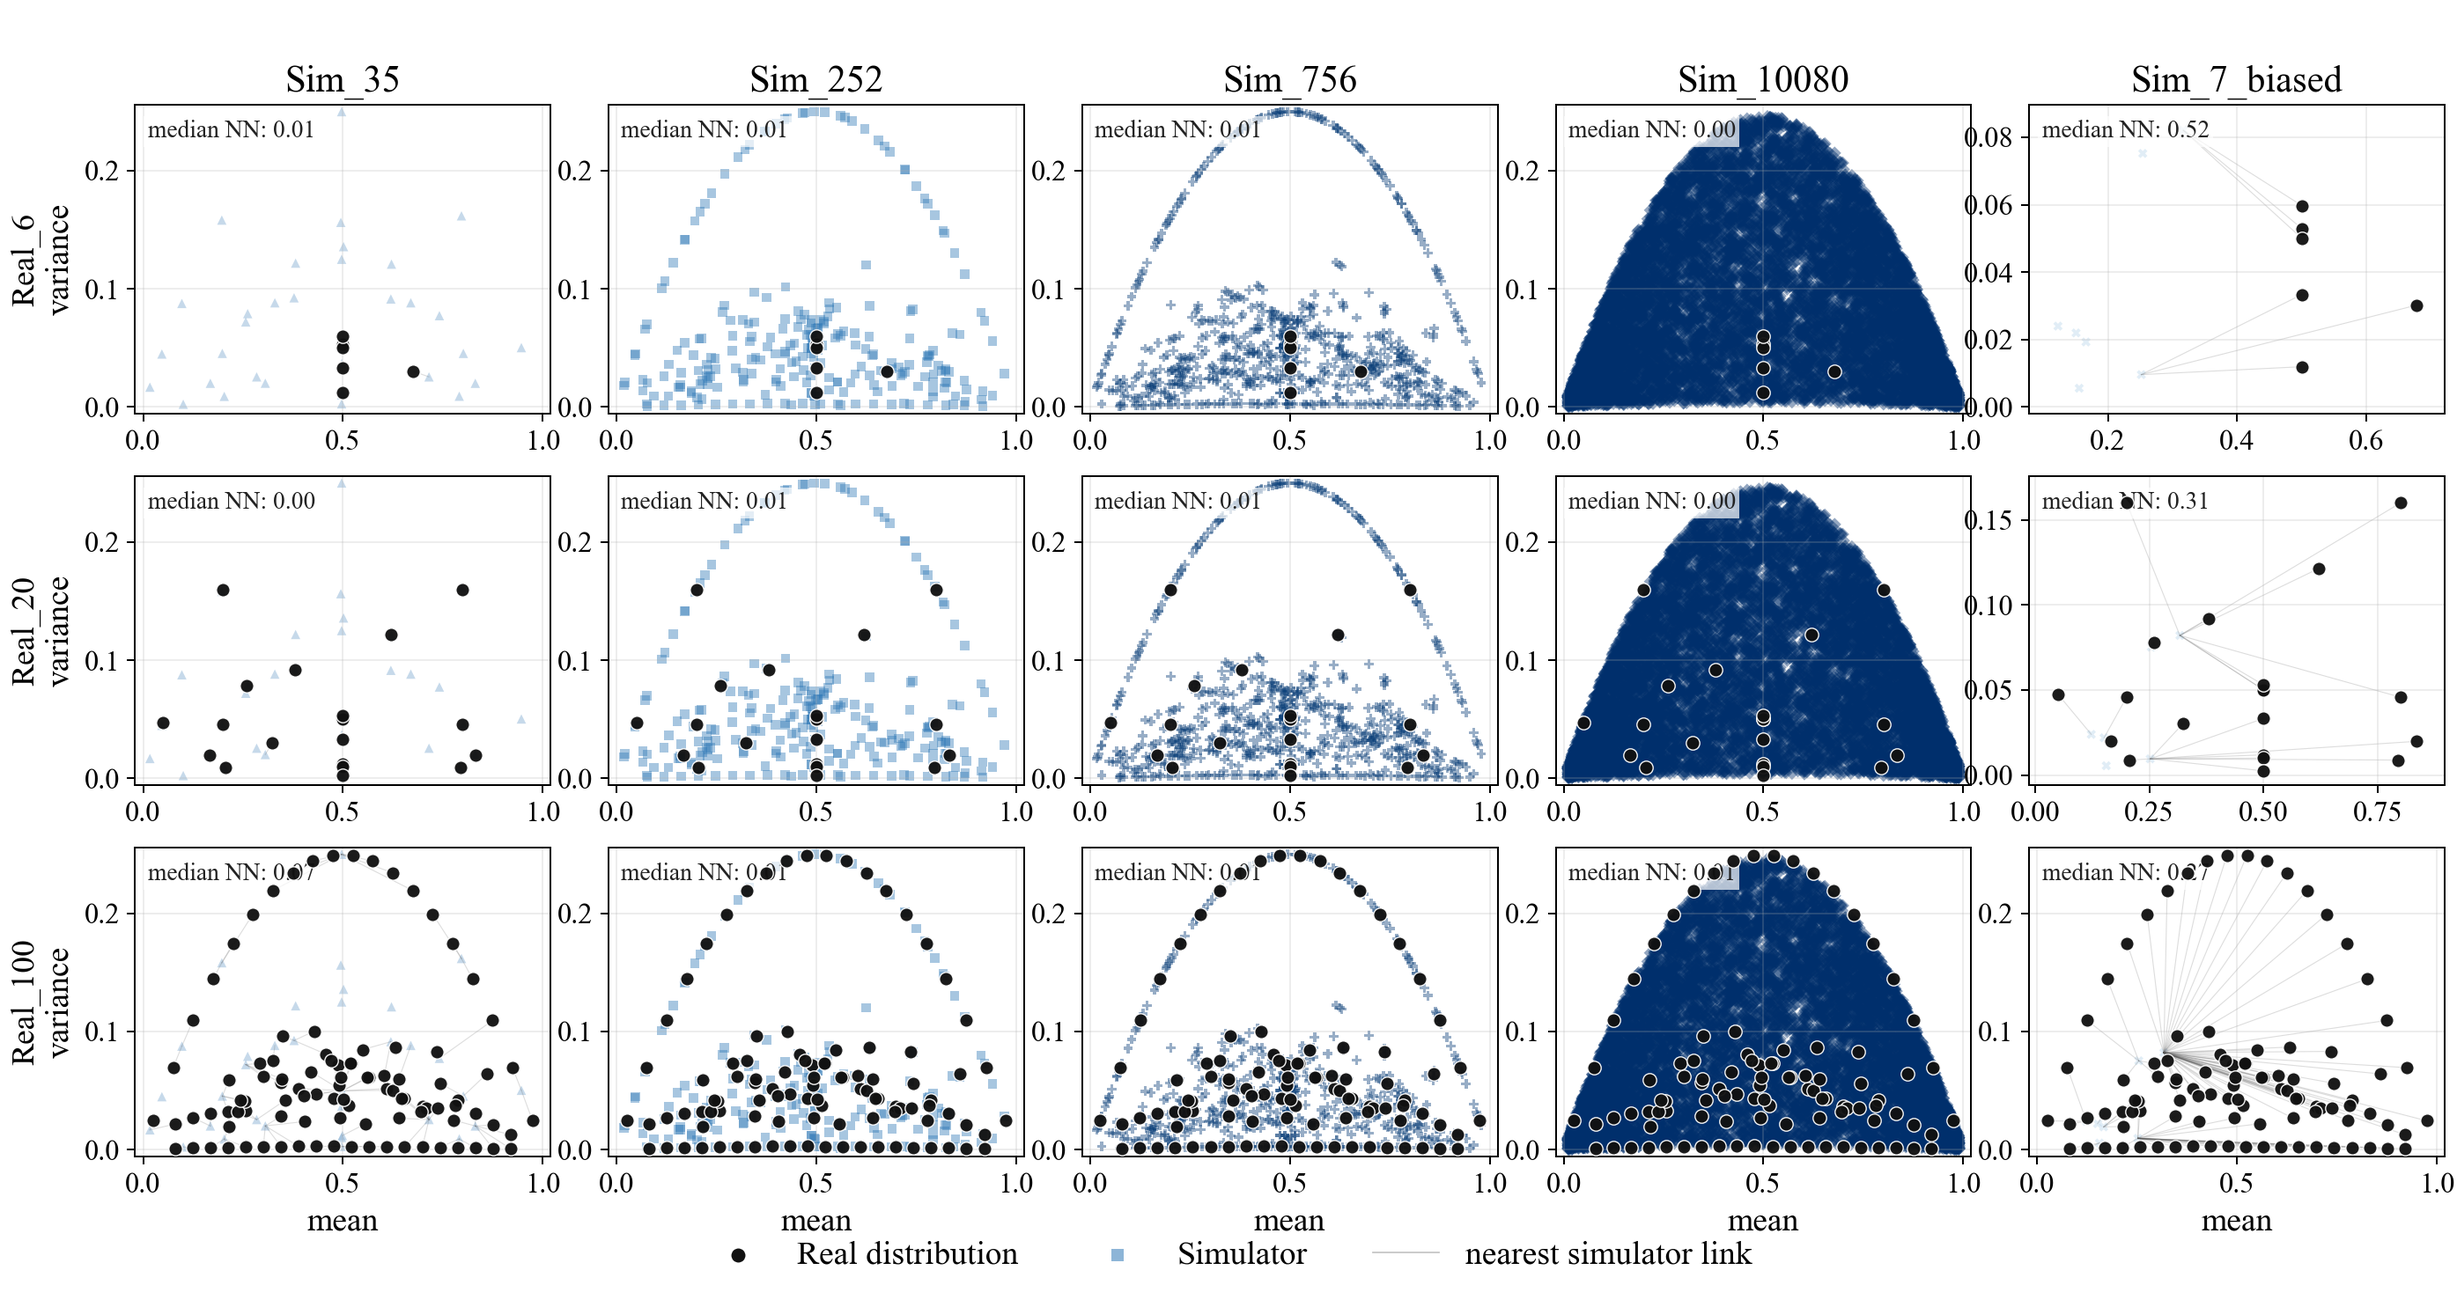
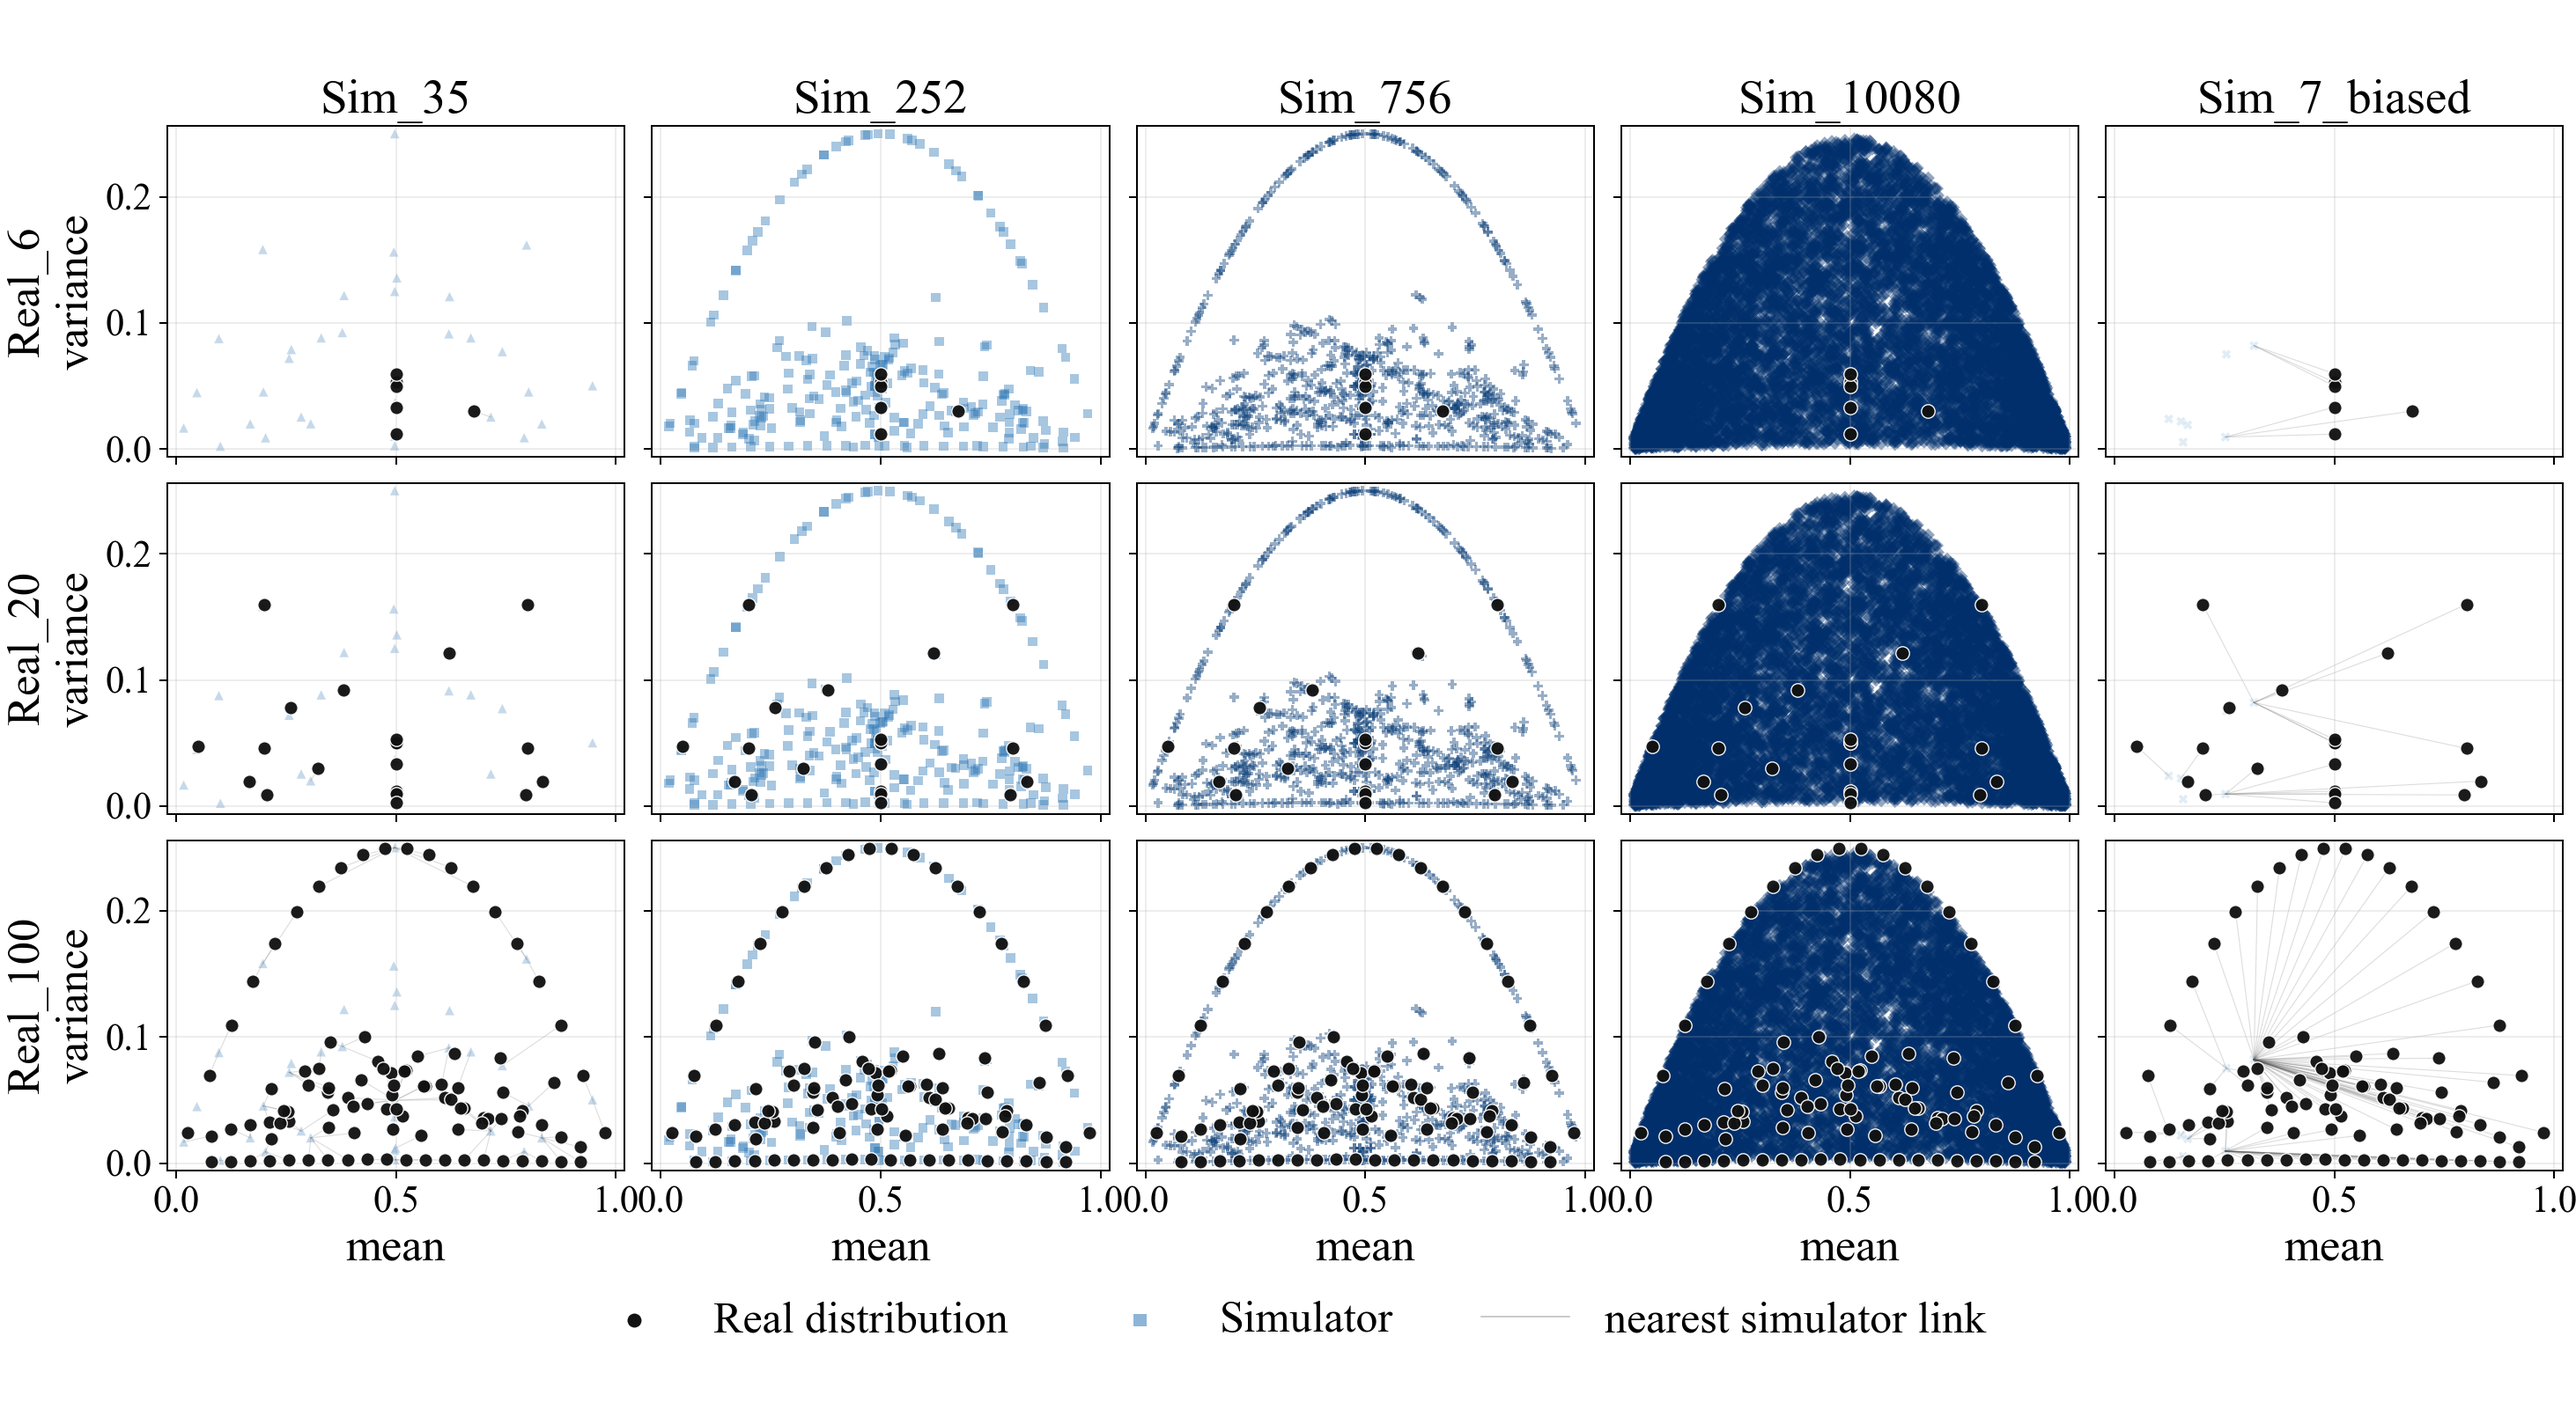
minor updates to astm and synthetic

diff --git a/synthetic/plot_demo.py b/synthetic/plot_demo.py
@@ -49,6 +49,24 @@ SIM2REAL_COLORS = {
     "Sim_7_biased": "#b8d5ea",
 }
 
+CONCENTRATION_COLORS = {
+    "hoeffding": "#31a354",
+    "empirical_bernstein": "#006d2c",
+}
+
+PVALUE_COLORS = {
+    "t_test": "#969696",
+    "z_test": "#636363",
+    "sequential_t_test": "#252525",
+}
+
+VINCENT_COLORS = {
+    0.05: "#7a0177",
+    0.10: "#ae017e",
+    0.20: "#dd3497",
+    0.30: "#f768a1",
+}
+
 
 SIM_MARKERS = {
     "Sim_35": "^",
@@ -124,9 +142,9 @@ def style_for(method, bank, highlighted_bank):
     if method == "sim2real":
         if bank == "Ideal":
             return {
-                "color": "#000000",
-                "linewidth": 2.5,
-                "alpha": 0.80,
+                "color": "#00a6c8",
+                "linewidth": 3.0,
+                "alpha": 0.95,
                 "linestyle": "-",
             }
         style = {
@@ -147,9 +165,9 @@ def style_for(method, bank, highlighted_bank):
         return {"color": "#e08214", "linewidth": 1.8, "alpha": 0.86, "linestyle": "-."}
     if method in ("hoeffding", "empirical_bernstein"):
         return {
-            "color": "#8c6bb1" if method == "hoeffding" else "#6a51a3",
+            "color": CONCENTRATION_COLORS[method],
             "linewidth": 1.8,
-            "alpha": 0.82,
+            "alpha": 0.88,
             "linestyle": "--" if method == "hoeffding" else "-.",
         }
     if method in ("t_test", "z_test", "sequential_t_test"):
@@ -158,24 +176,18 @@ def style_for(method, bank, highlighted_bank):
             "z_test": "-.",
             "sequential_t_test": "--",
         }
-        return {"color": "#444444", "linewidth": 1.7, "alpha": 0.75, "linestyle": styles[method]}
+        return {"color": PVALUE_COLORS[method], "linewidth": 1.9, "alpha": 0.86, "linestyle": styles[method]}
     if method == "vincent":
         if bank == "Ideal":
             return {
-                "color": "#4a004a",
+                "color": "#4d004b",
                 "linewidth": 2.3,
                 "alpha": 0.86,
                 "linestyle": ":",
             }
         gap = float(bank.split("_")[-1])
-        colors = {
-            0.05: "#7a0177",
-            0.10: "#ae017e",
-            0.20: "#dd3497",
-            0.30: "#f768a1",
-        }
         return {
-            "color": colors.get(gap, "#b45a4a"),
+            "color": VINCENT_COLORS.get(gap, "#b45a4a"),
             "linewidth": 1.7,
             "alpha": 0.84,
             "linestyle": "--",
@@ -404,7 +416,9 @@ def plot_distribution_geometry_by_bank(save):
     fig, axes = plt.subplots(
         n_rows,
         n_cols,
-        figsize=(3.1 * n_cols, 2.75 * n_rows),
+        figsize=(3.25 * n_cols, 2.95 * n_rows),
+        sharex=True,
+        sharey=True,
         squeeze=False,
     )
 
@@ -456,33 +470,17 @@ def plot_distribution_geometry_by_bank(save):
                     zorder=1,
                 )
 
-            all_means = np.r_[real_means, sim_means]
-            all_vars = np.r_[real_vars, sim_vars]
-            mean_pad = max(0.015, 0.08 * np.ptp(all_means))
-            var_pad = max(0.003, 0.10 * np.ptp(all_vars))
-            ax.set_xlim(max(-0.02, float(np.min(all_means) - mean_pad)), min(1.02, float(np.max(all_means) + mean_pad)))
-            ax.set_ylim(max(-0.006, float(np.min(all_vars) - var_pad)), min(0.256, float(np.max(all_vars) + var_pad)))
+            ax.set_xlim(-0.02, 1.02)
+            ax.set_ylim(-0.006, 0.256)
             ax.grid(alpha=0.22)
 
             if row_idx == 0:
-                ax.set_title(bank_name, fontsize=17)
+                ax.set_title(bank_name, fontsize=22)
             if col_idx == 0:
-                ax.set_ylabel(f"{real_name}\nvariance", fontsize=15)
+                ax.set_ylabel(f"{real_name}\nvariance", fontsize=21)
             if row_idx == n_rows - 1:
-                ax.set_xlabel("mean", fontsize=15)
-
-            if len(nearest_dist):
-                ax.text(
-                    0.03,
-                    0.95,
-                    f"median NN: {np.median(nearest_dist):.2f}",
-                    transform=ax.transAxes,
-                    ha="left",
-                    va="top",
-                    fontsize=11,
-                    color="#222222",
-                    bbox={"facecolor": "white", "edgecolor": "none", "alpha": 0.70, "pad": 1.8},
-                )
+                ax.set_xlabel("mean", fontsize=21)
+            ax.tick_params(axis="both", labelsize=17)
 
     real_handle = axes[0, 0].scatter([], [], s=48, marker="o", facecolors="#111111", edgecolors="white", linewidths=0.55)
     sim_handle = axes[0, 0].scatter([], [], s=34, marker="s", color="#2f79b7", edgecolors="none", alpha=0.55)
@@ -493,10 +491,10 @@ def plot_distribution_geometry_by_bank(save):
         loc="lower center",
         ncol=3,
         frameon=False,
-        fontsize=15,
-        bbox_to_anchor=(0.5, 0.005),
+        fontsize=20,
+        bbox_to_anchor=(0.5, 0.015),
     )
-    fig.subplots_adjust(left=0.055, right=0.995, bottom=0.115, top=0.92, hspace=0.20, wspace=0.14)
+    fig.subplots_adjust(left=0.065, right=0.995, bottom=0.165, top=0.91, hspace=0.08, wspace=0.06)
     fig.savefig(save, dpi=180)
     print(f"saved {save}")
 

diff --git a/astm_wk86916_go2/plot_demo.py b/astm_wk86916_go2/plot_demo.py
@@ -32,6 +32,24 @@ SIM2REAL_COLORS = {
     "Sim_7_biased": "#b8d5ea",
 }
 
+CONCENTRATION_COLORS = {
+    "hoeffding": "#31a354",
+    "empirical_bernstein": "#006d2c",
+}
+
+PVALUE_COLORS = {
+    "t_test": "#969696",
+    "z_test": "#636363",
+    "sequential_t_test": "#252525",
+}
+
+VINCENT_COLORS = {
+    0.05: "#7a0177",
+    0.10: "#ae017e",
+    0.20: "#dd3497",
+    0.30: "#f768a1",
+}
+
 
 MEASURE_LABELS = {
     "pos_error_l2": ("Position error", "certificate width (mm)"),
@@ -127,18 +145,17 @@ def style_for(method, bank):
         return {"color": "#e08214", "linewidth": 1.8, "alpha": 0.86, "linestyle": "-."}
     if method in ("hoeffding", "empirical_bernstein"):
         return {
-            "color": "#8c6bb1" if method == "hoeffding" else "#6a51a3",
+            "color": CONCENTRATION_COLORS[method],
             "linewidth": 1.8,
-            "alpha": 0.82,
+            "alpha": 0.88,
             "linestyle": "--" if method == "hoeffding" else "-.",
         }
     if method in ("t_test", "z_test", "sequential_t_test"):
         styles = {"t_test": ":", "z_test": "-.", "sequential_t_test": "--"}
-        return {"color": "#444444", "linewidth": 1.7, "alpha": 0.75, "linestyle": styles[method]}
+        return {"color": PVALUE_COLORS[method], "linewidth": 1.9, "alpha": 0.86, "linestyle": styles[method]}
     if method == "vincent":
-        colors = {0.05: "#7a0177", 0.10: "#ae017e", 0.20: "#dd3497"}
         return {
-            "color": colors.get(float(bank.split("_")[-1]), "#b45a4a"),
+            "color": VINCENT_COLORS.get(float(bank.split("_")[-1]), "#b45a4a"),
             "linewidth": 1.7,
             "alpha": 0.84,
             "linestyle": "--",
@@ -150,7 +167,7 @@ def plot_width_curves():
     rows = read_csv(DATA_DIR / "certificate_widths.csv")
     order = method_order(rows)
     measures = list(dict.fromkeys(row["measure"] for row in rows))
-    fig, axes = plt.subplots(1, len(measures), figsize=(7.2 * len(measures), 5.0), sharey=False)
+    fig, axes = plt.subplots(1, len(measures), figsize=(7.2 * len(measures), 5.8), sharey=False)
     if len(measures) == 1:
         axes = [axes]
 
@@ -186,10 +203,10 @@ def plot_width_curves():
         ax.grid(alpha=0.25)
 
     handles, labels = zip(*[legend_entries[key] for key in order if key in legend_entries])
-    fig.legend(handles, labels, loc="lower center", ncol=4, frameon=False, bbox_to_anchor=(0.5, -0.08))
-    fig.subplots_adjust(left=0.075, right=0.99, bottom=0.28, top=0.88, wspace=0.24)
+    fig.legend(handles, labels, loc="lower center", ncol=5, frameon=False, bbox_to_anchor=(0.5, 0.01))
+    fig.subplots_adjust(left=0.075, right=0.99, bottom=0.35, top=0.88, wspace=0.24)
     save = DATA_DIR / "width_curves.png"
-    fig.savefig(save, dpi=180)
+    fig.savefig(save, dpi=180, bbox_inches="tight")
     print(f"saved {save}")
 
 

diff --git a/astm_wk86916_go2/demo.py b/astm_wk86916_go2/demo.py
@@ -27,7 +27,7 @@ NORMALIZATION_BOUNDS = {
     "pos_error_l2": (0.0, 0.10),
     "orientation_error_geodesic": (0.0, 0.20),
 }
-VINCENT_GAPS = (0.05, 0.10, 0.20)
+VINCENT_GAPS = (0.05, 0.10, 0.20, 0.30)
 HORIZONS = (5, 10, 20, 30)
 VINCENT_SIMULATORS = {
     "pos_error_l2": BetaSkewed(2.0, 10.0),
